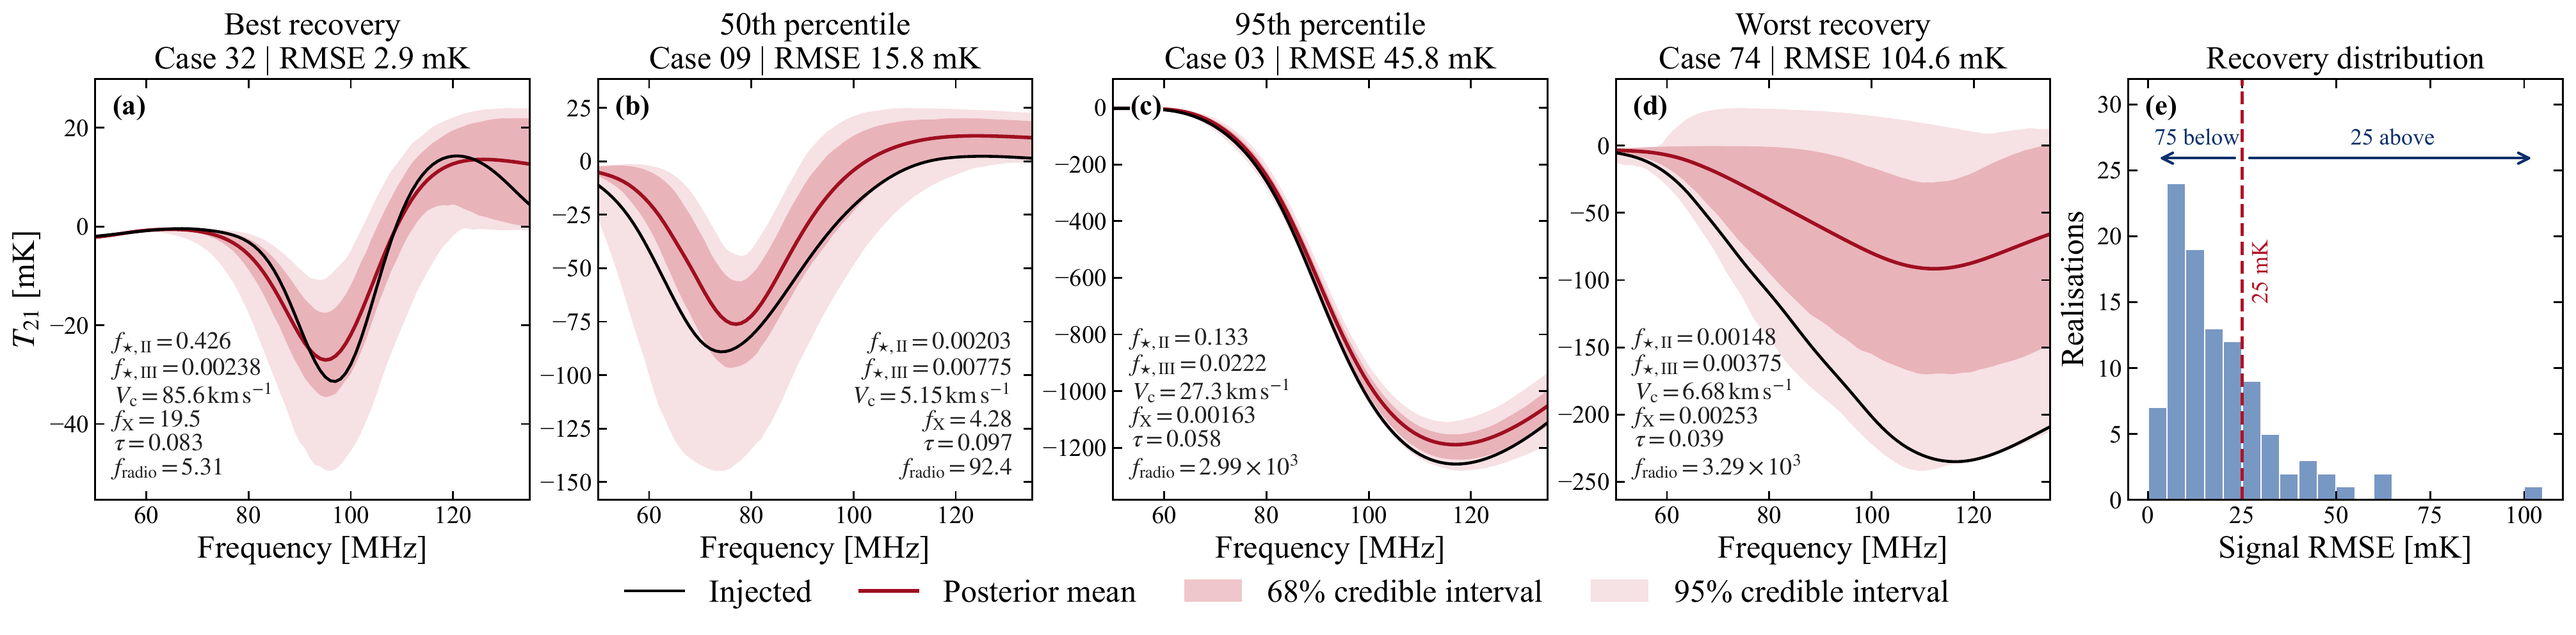
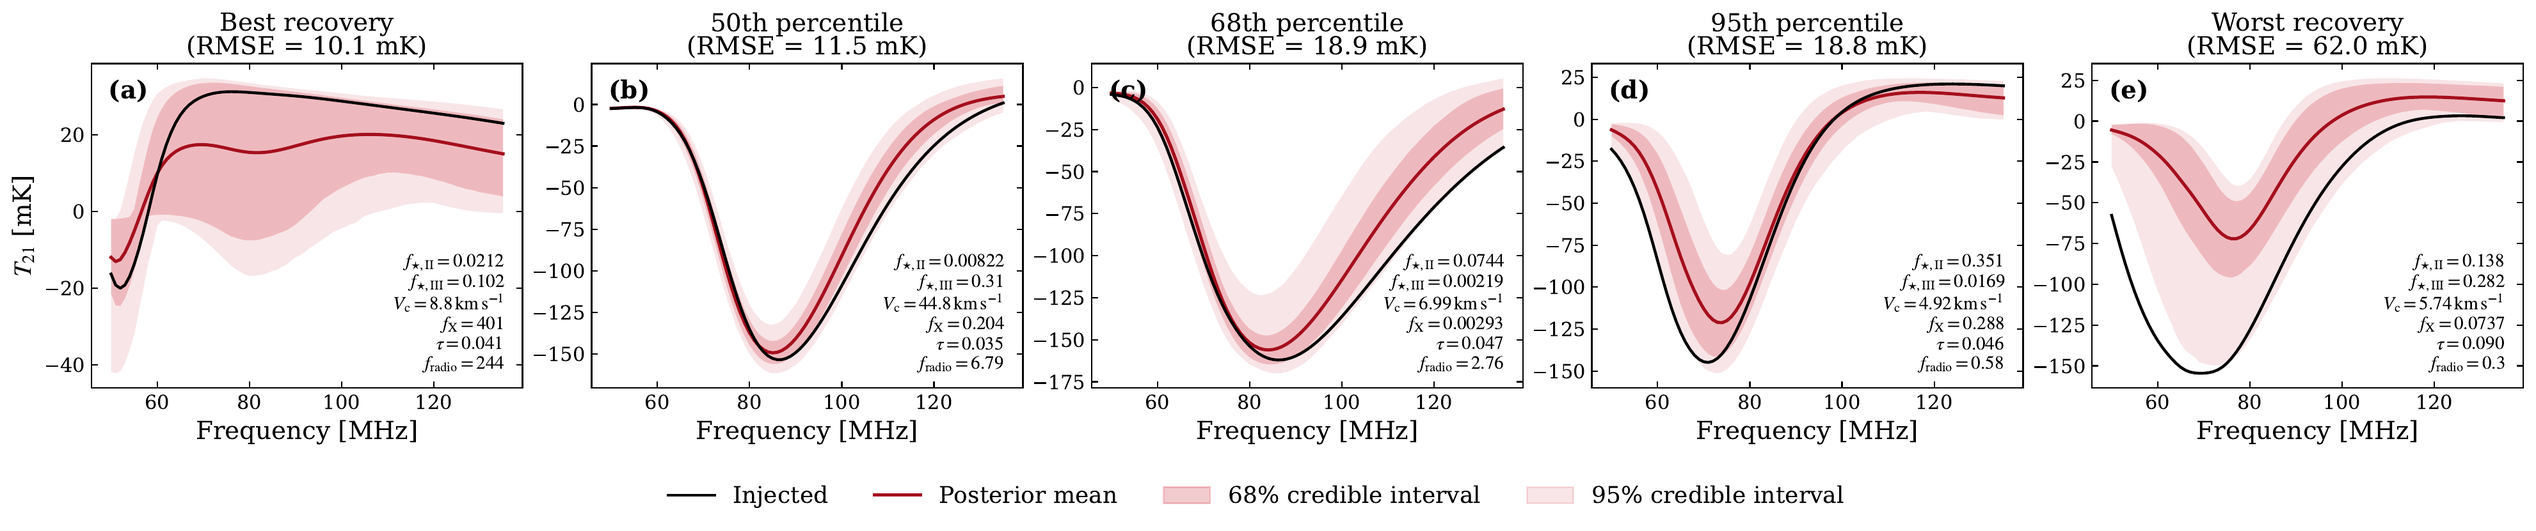
Update signal recovery benchmark figure

diff --git a/README.md b/README.md
@@ -139,8 +139,8 @@ transition through `algorithm.step`.
 
 ![Nested Slice Sampling recovery benchmark](docs/figures/nss_signal_recovery.png)
 
-*Figure 3. End-to-end signal recovery from the collapsed NSS benchmark across
-100 unseen signal realisations.*
+*Figure 3. Representative NSS signal recoveries ordered by whole-profile
+credible-band coverage across 100 unseen realisations.*
 
 Run the 37-dimensional collapsed benchmark for dataset 0 with:
 
